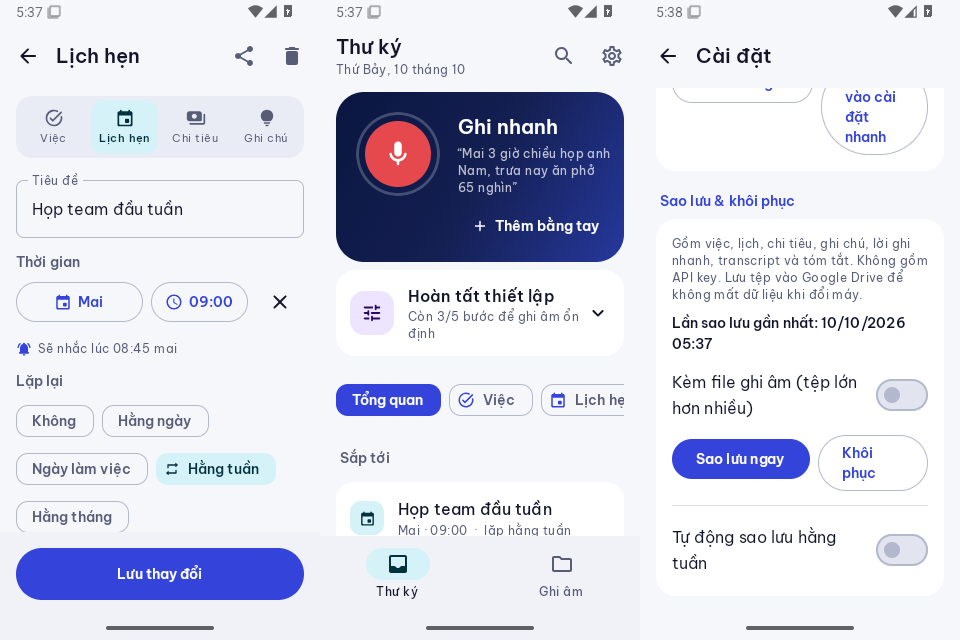
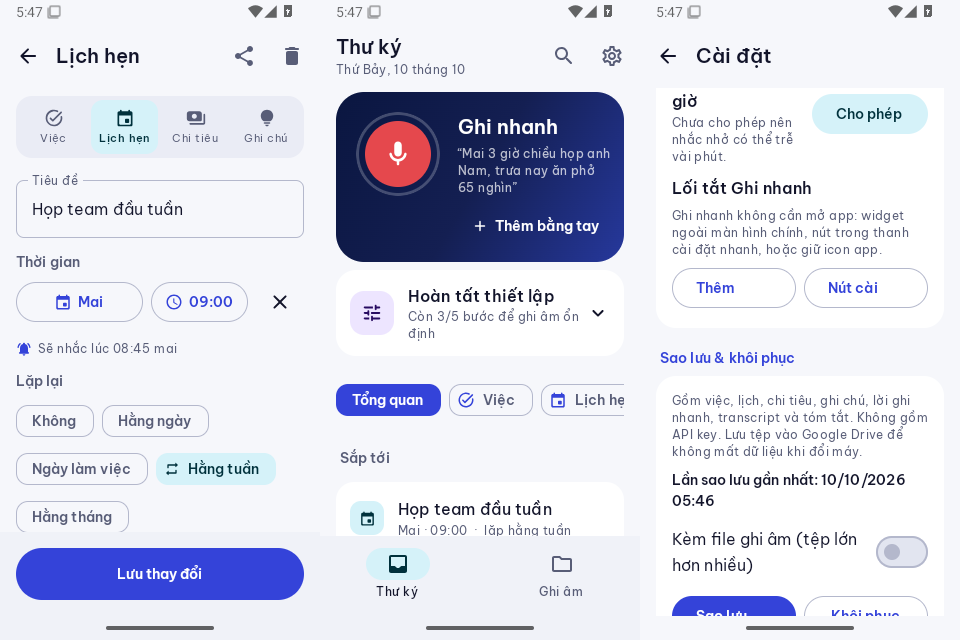
Settings: shortcut buttons stacked full width, backup buttons with tighter padding
Claude-Session: https://claude.ai/code/session_01FjDtwnbR8bLjQcyXwYJCKz

diff --git a/app/src/main/java/com/vh/myrecap/ui/SettingsScreen.kt b/app/src/main/java/com/vh/myrecap/ui/SettingsScreen.kt
@@ -26,6 +26,7 @@ import androidx.compose.foundation.layout.size
 import androidx.compose.foundation.selection.toggleable
 import androidx.compose.foundation.shape.RoundedCornerShape
 import androidx.compose.foundation.layout.Column
+import androidx.compose.foundation.layout.PaddingValues
 import androidx.compose.foundation.layout.Row
 import androidx.compose.foundation.layout.Spacer
 import androidx.compose.foundation.layout.fillMaxSize
@@ -487,18 +488,17 @@ private fun ShortcutRow() {
     Column(verticalArrangement = Arrangement.spacedBy(6.dp)) {
         Text("Lối tắt Ghi nhanh", fontWeight = FontWeight.SemiBold)
         Hint("Ghi nhanh không cần mở app: widget ngoài màn hình chính, nút trong thanh cài đặt nhanh, hoặc giữ icon app.")
-        Row(horizontalArrangement = Arrangement.spacedBy(8.dp)) {
-            if (canPinWidget) {
-                OutlinedButton(onClick = {
-                    widgets?.requestPinAppWidget(ComponentName(context, CaptureWidget::class.java), null, null)
-                }, modifier = Modifier.weight(1f)) { Text("Thêm widget", maxLines = 1) }
-            }
-            if (canAddTile) {
-                OutlinedButton(
-                    onClick = { if (Build.VERSION.SDK_INT >= 33) requestTile(context) },
-                    modifier = Modifier.weight(1f),
-                ) { Text("Nút cài đặt nhanh", maxLines = 1) }
-            }
+        // Stacked full width: the labels stay whole on narrow phones.
+        if (canPinWidget) {
+            OutlinedButton(onClick = {
+                widgets?.requestPinAppWidget(ComponentName(context, CaptureWidget::class.java), null, null)
+            }, modifier = Modifier.fillMaxWidth()) { Text("Thêm widget ra màn hình chính") }
+        }
+        if (canAddTile) {
+            OutlinedButton(
+                onClick = { if (Build.VERSION.SDK_INT >= 33) requestTile(context) },
+                modifier = Modifier.fillMaxWidth(),
+            ) { Text("Thêm nút vào cài đặt nhanh") }
         }
     }
 }
@@ -558,11 +558,13 @@ private fun BackupSection(vm: AppViewModel, s: AppSettings) {
             onClick = { createFile.launch(BackupManager.suggestedName()) },
             enabled = busy == null,
             modifier = Modifier.weight(1f),
+            contentPadding = PaddingValues(horizontal = 8.dp),
         ) { Text("Sao lưu ngay", maxLines = 1) }
         OutlinedButton(
             onClick = { openFile.launch(arrayOf("application/zip", "application/octet-stream", "application/x-zip-compressed")) },
             enabled = busy == null,
             modifier = Modifier.weight(1f),
+            contentPadding = PaddingValues(horizontal = 8.dp),
         ) { Text("Khôi phục", maxLines = 1) }
     }
     if (busy != null) {
